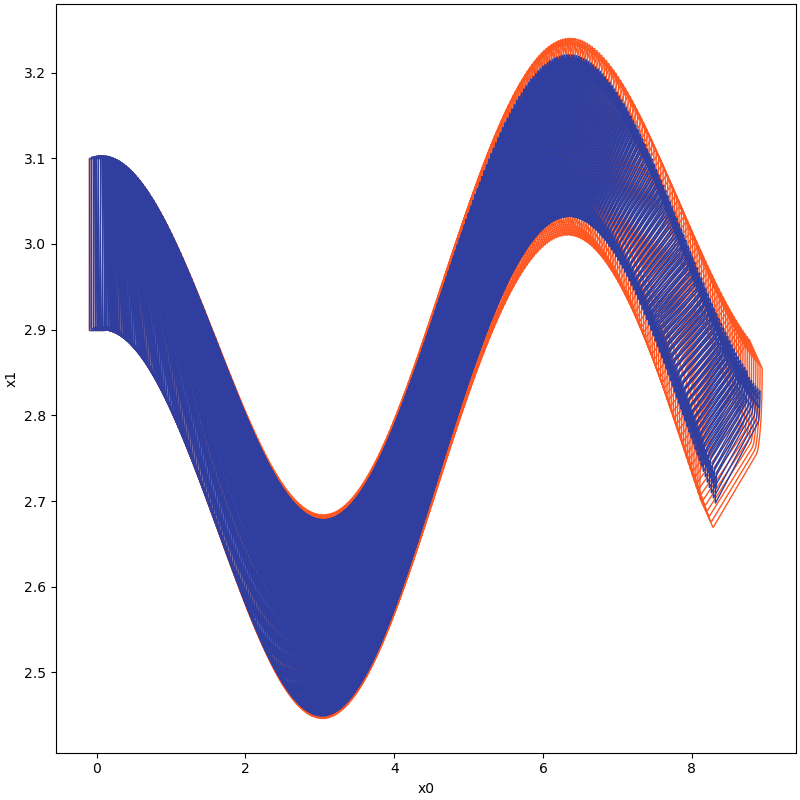
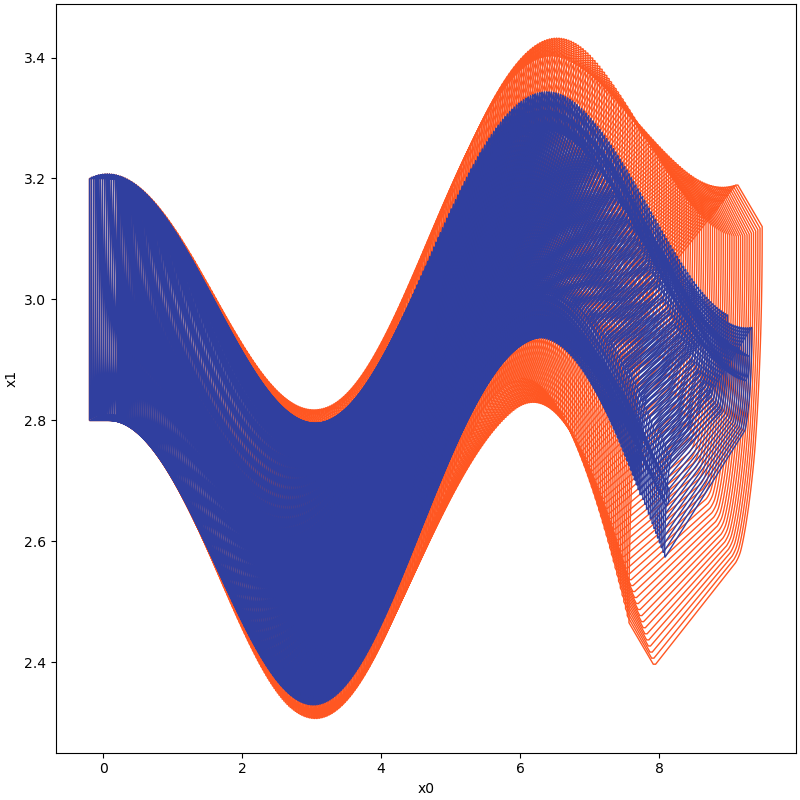
refine samples

diff --git a/test/algorithm/test_asb2008cdc.py b/test/algorithm/test_asb2008cdc.py
@@ -315,7 +315,7 @@ def test_synchronous_machine_cmp():
     Zonotope.REDUCE_METHOD = Zonotope.REDUCE_METHOD.GIRARD
     Zonotope.ORDER = 50
 
-    z = Zonotope([0, 3], np.diag([0.1, 0.1]))
+    z = Zonotope([0, 3], np.diag([0.2, 0.2]))
 
     # reachable sets computation without boundary analysis
     options.r0 = [z]

diff --git a/example/benchmark_synchronous_machine_cmp.py b/example/benchmark_synchronous_machine_cmp.py
@@ -26,7 +26,7 @@ options.u_trans = np.zeros(1)
 Zonotope.REDUCE_METHOD = Zonotope.REDUCE_METHOD.GIRARD
 Zonotope.ORDER = 50
 
-z = Zonotope([0, 3], np.diag([0.1, 0.1]))
+z = Zonotope([0, 3], np.diag([0.2, 0.2]))
 
 # reachable sets computation without boundary analysis
 options.r0 = [z]
